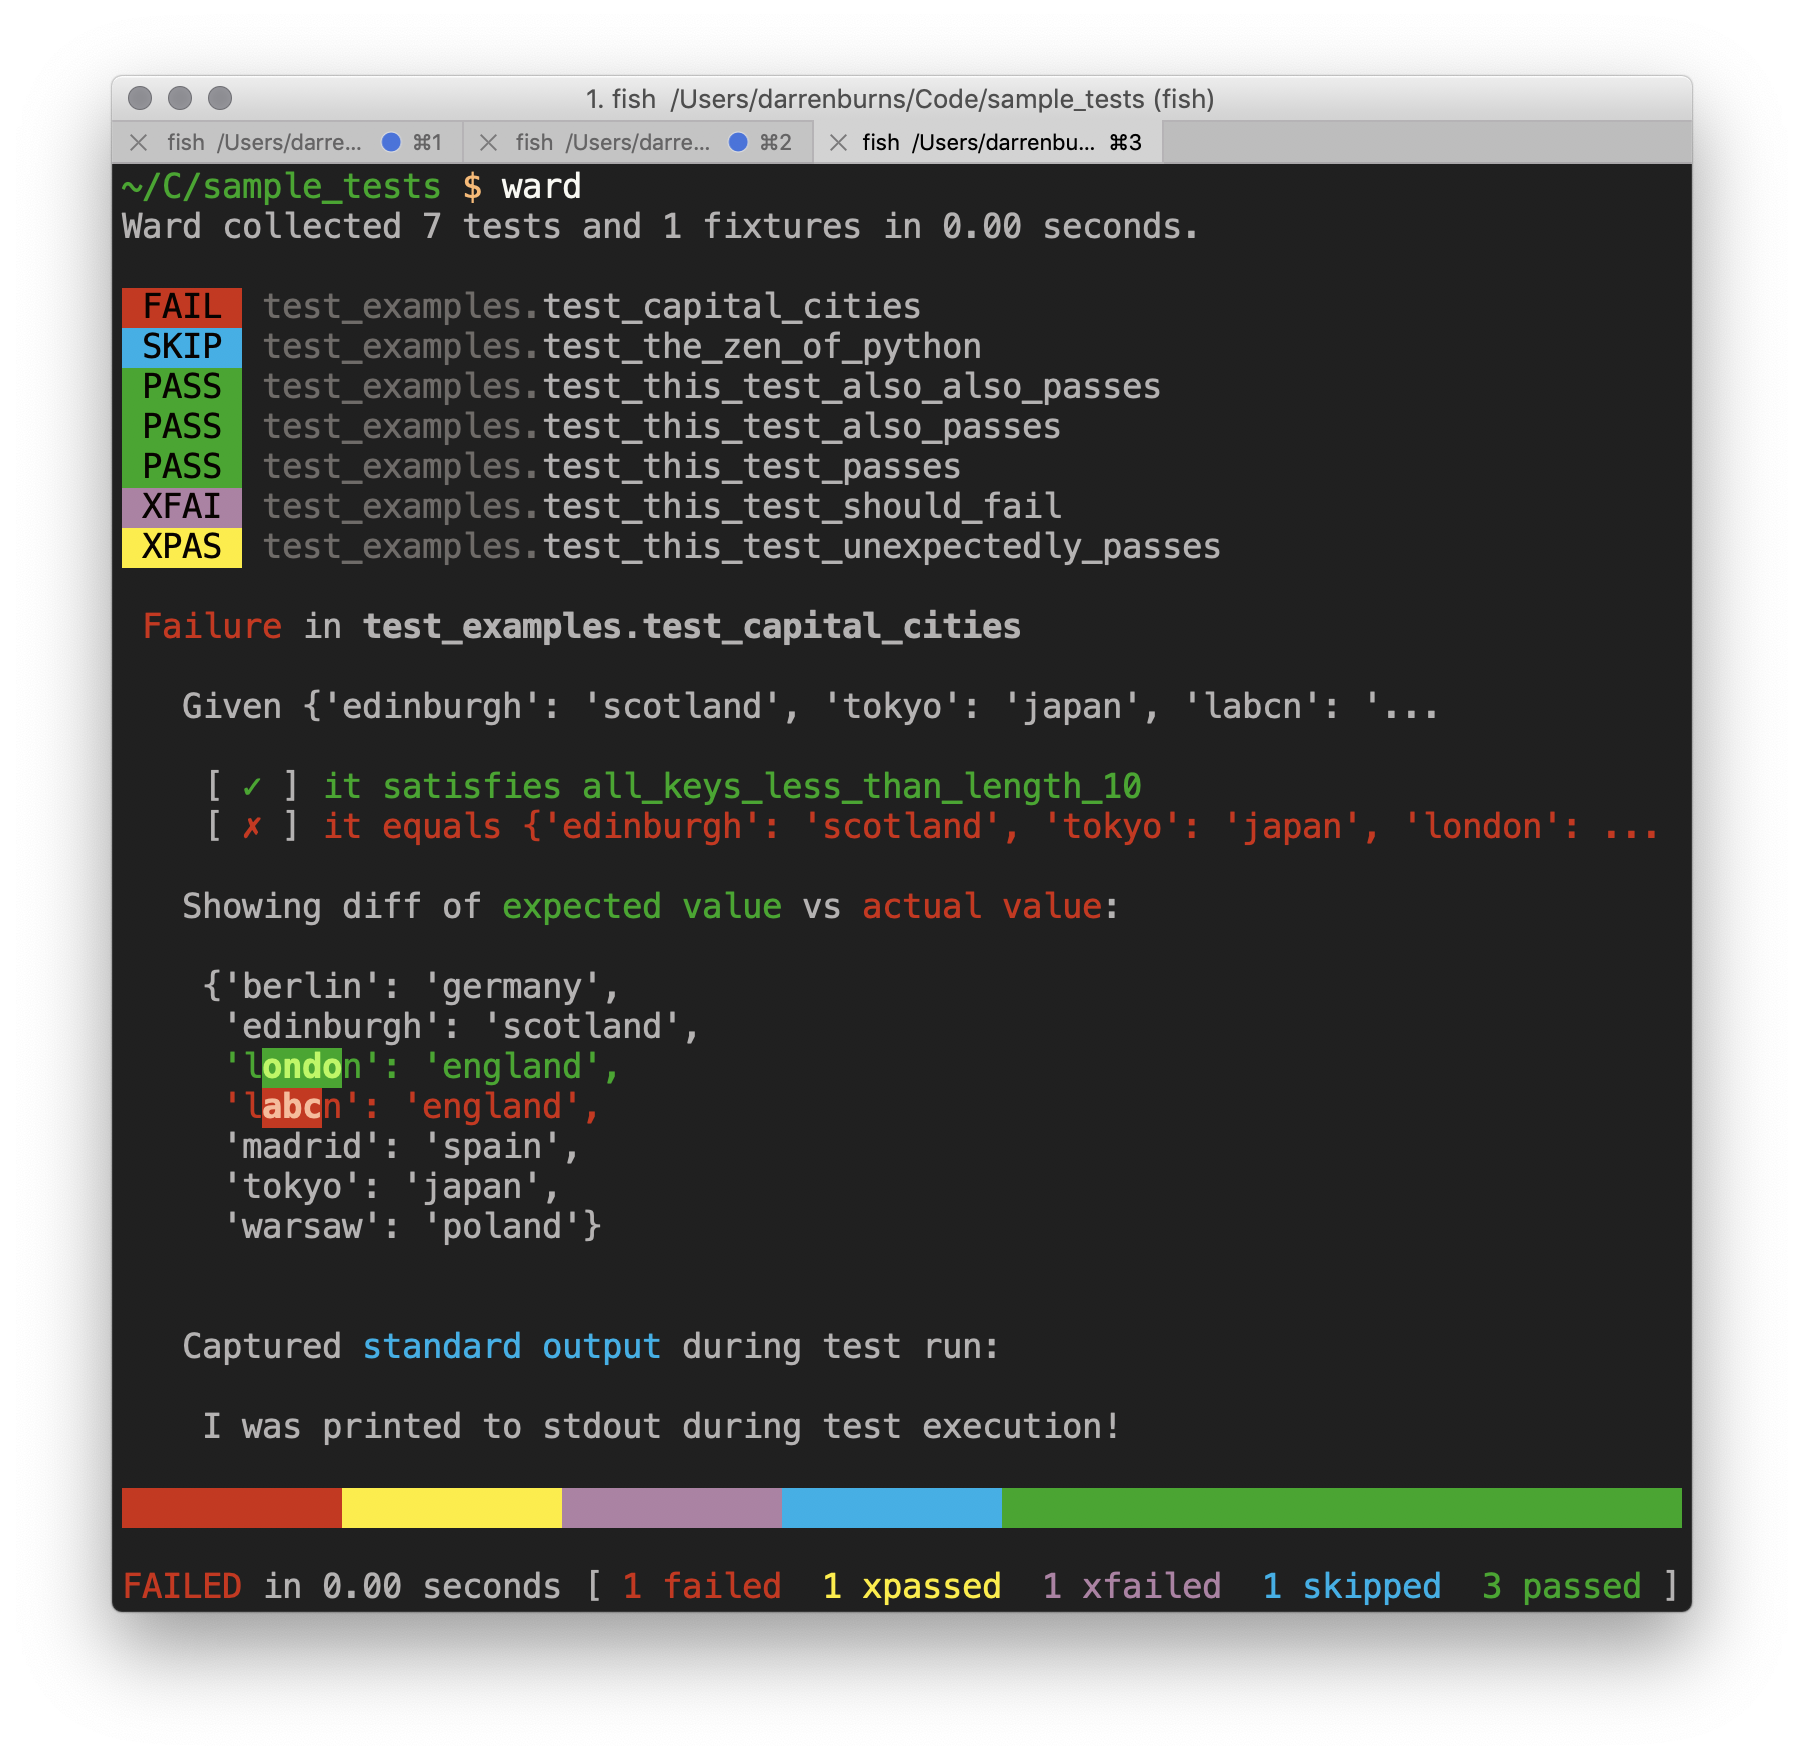
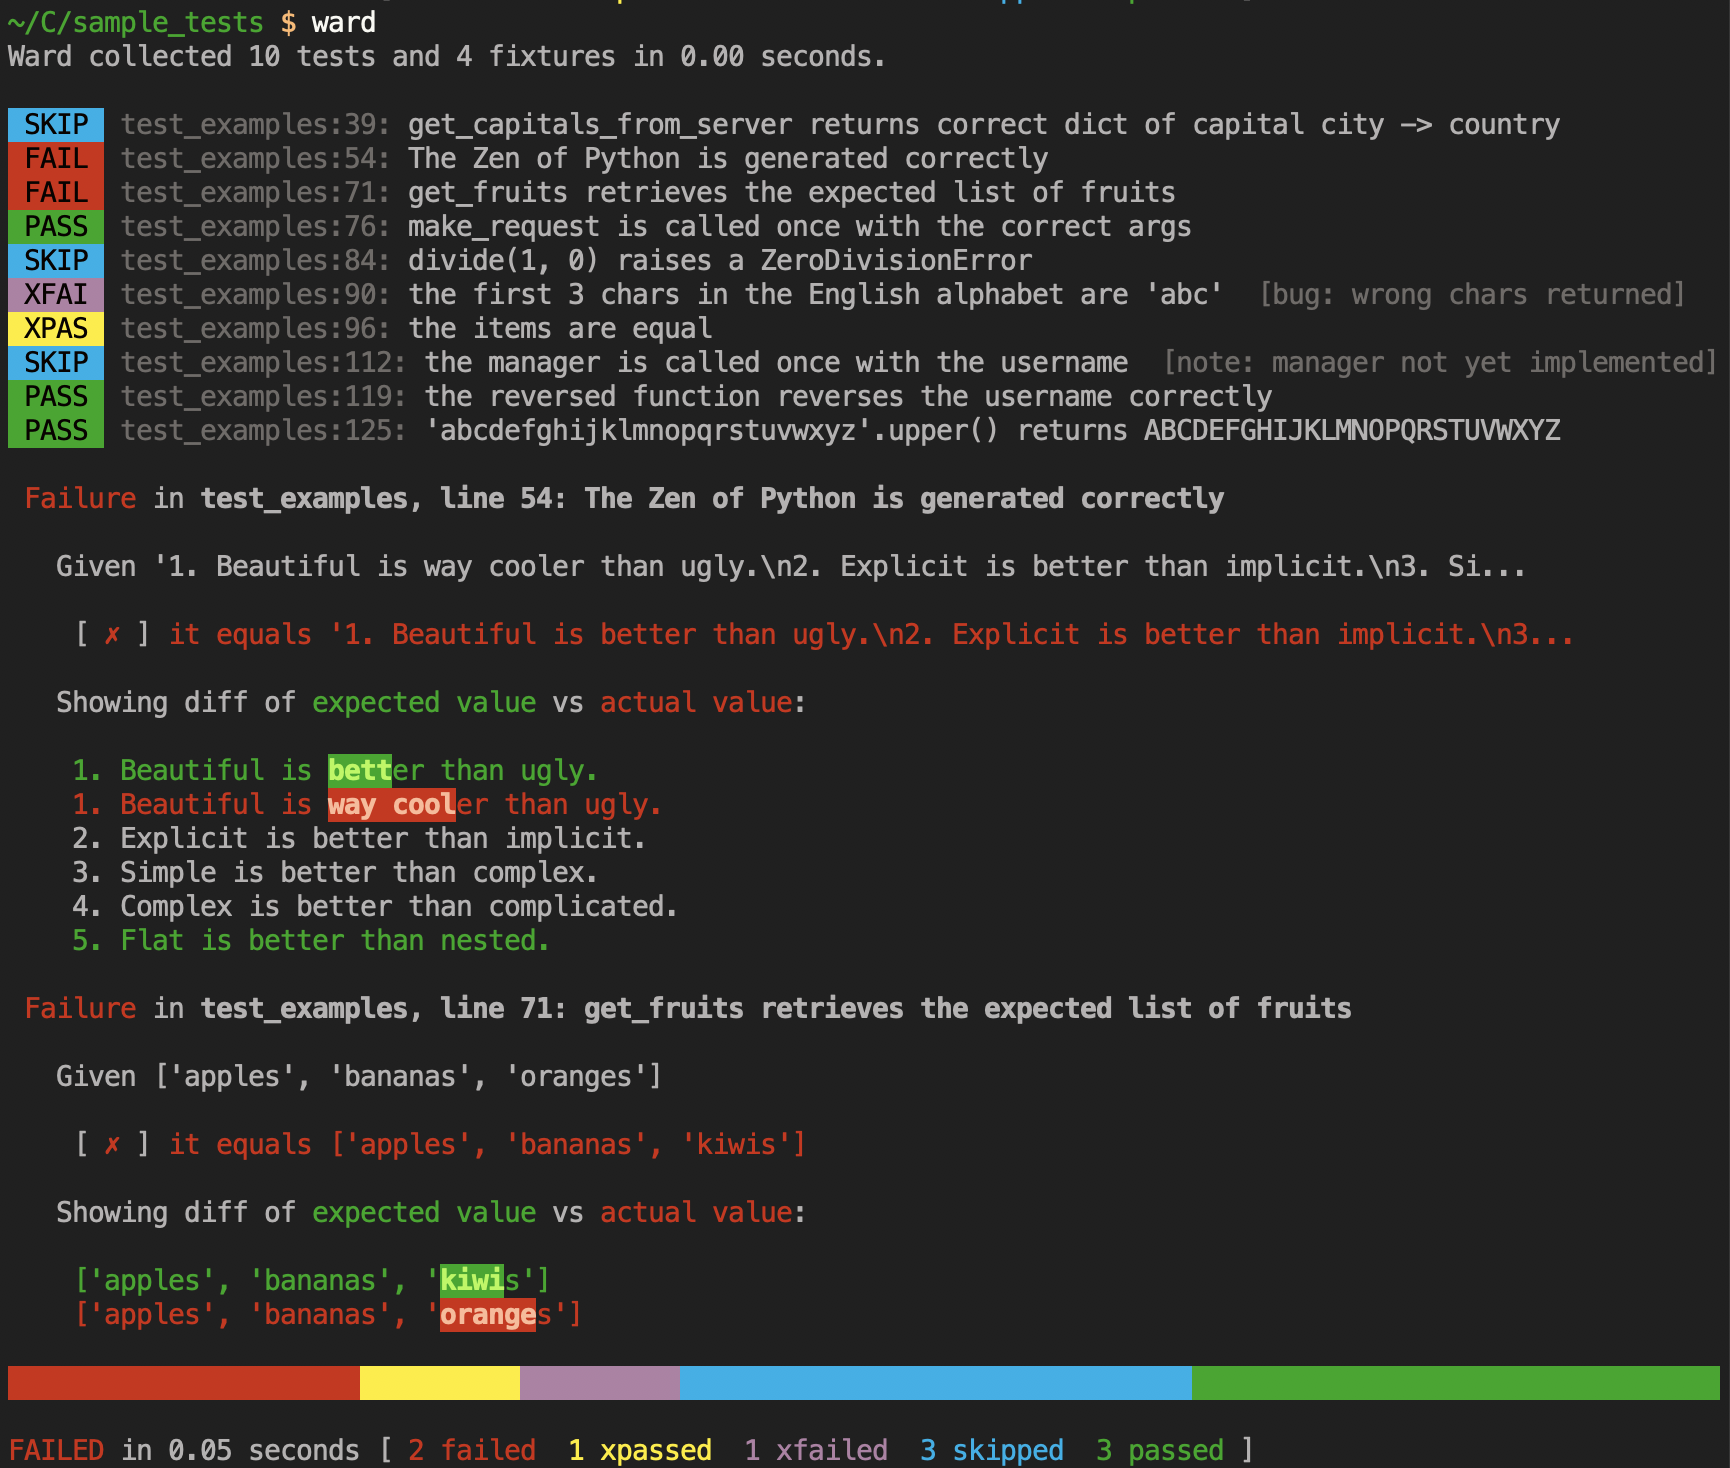
Including line numbers when tests have no func names

diff --git a/ward/terminal.py b/ward/terminal.py
@@ -121,7 +121,7 @@ class SimpleTestResultWrite(TestResultWriterBase):
         bg = f"on_{colour}"
         padded_outcome = f" {test_result.outcome.name[:4]} "
         if test_result.test.description:
-            sep = ": "
+            sep = f":{test_result.test.line_number}: "
         else:
             sep = "."
         mod_name = lightblack(f"{test_result.test.module_name}{sep}")
@@ -154,7 +154,7 @@ class SimpleTestResultWrite(TestResultWriterBase):
             test_name_suffix = ""
 
         if test.description:
-            name_or_desc = f"{test.module_name}: {test.description}"
+            name_or_desc = f"{test.module_name}, line {test.line_number}: {test.description}"
         else:
             name_or_desc = test.qualified_name
 

diff --git a/ward/testing.py b/ward/testing.py
@@ -92,6 +92,10 @@ class Test:
         name = self.name or ""
         return f"{self.module_name}.{name}"
 
+    @property
+    def line_number(self):
+        return inspect.getsourcelines(self.fn)[1]
+
     def deps(self) -> MappingProxyType:
         return inspect.signature(self.fn).parameters
 
